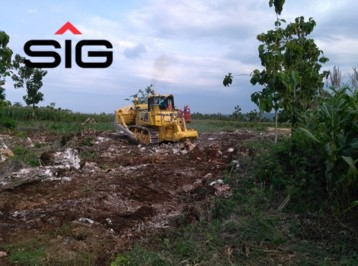
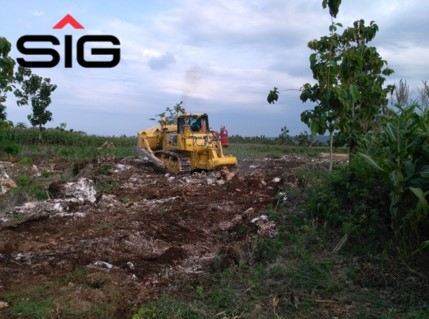
update content dan img

Changed region(s): [[0.0307, 0.0301, 0.338, 0.2707]]

diff --git a/portfolio-mining.html b/portfolio-mining.html
@@ -217,10 +217,11 @@
               <div class="row g-1 row-cols-1"">
                 <div class="col">
                   <div>
-                    <a href="assets/img/portfolio/sig-tuban-1.jpg" class="glightbox portfolio-lightbox">
-                      <img src="assets/img/portfolio/sig-tuban-1.jpg" alt="" class="img-fluid">
+                    <a href="assets/img/portfolio/sig-pangkep-1.jpg" class="glightbox portfolio-lightbox">
+                      <img src="assets/img/portfolio/sig-pangkep-1.jpg" alt="" class="img-fluid">
                     </a>
-                    <a href="assets/img/portfolio/sig-tuban-1.jpg" class="glightbox portfolio-lightbox"></a>
+                    <a href="assets/img/portfolio/sig-pangkep-2.jpg" class="glightbox portfolio-lightbox"></a>
+                    <a href="assets/img/portfolio/sig-pangkep-3.jpg" class="glightbox portfolio-lightbox"></a>
                   </div>
                 </div>
               </div>
@@ -250,39 +251,28 @@
           <div class="col-lg-6">
             <div class="container-fluid">
               <div class="row g-1 row-cols-1"">
-      
                 <div class="col">
                   <div>
-                    <a href="assets/img/portfolio/sig-tuban-1.jpg" class="glightbox portfolio-lightbox">
-                      <img src="assets/img/portfolio/sig-tuban-1.jpg" alt="" class="img-fluid">
+                    <a href="assets/img/portfolio/sig-padang-1.jpg" class="glightbox portfolio-lightbox">
+                      <img src="assets/img/portfolio/sig-padang-1.jpg" alt="" class="img-fluid">
                     </a>
+                    <a href="assets/img/portfolio/sig-padang-2.jpg" class="glightbox portfolio-lightbox"></a>
                   </div>
                 </div>
-      
-                <div class="col">
-                  <div>
-                    <a href="assets/img/portfolio/sig-tuban-2.jpg" class="glightbox portfolio-lightbox">
-                      <img src="assets/img/portfolio/sig-tuban-2.jpg" alt="" class="img-fluid">
-                    </a>
-                  </div>
-                </div>
-      
               </div>
-      
             </div>
-            
           </div>
 
           <div class="col-lg-6">
             <div class="portfolio-info">
-              <h3> Jasa Penambangan Quarry Padang </h3>
+              <h3> Jasa Penambangan Quarry Pangkep </h3>
               <ul>
-                <li><strong>Tahun</strong>: 2018-sekarang </li>
-                <li><strong>Lokasi</strong>: Padang, Sumbar </li>
-                <li><strong>User</strong>: PT. Semen Padang (Persero), Semen Indonesia Group </li>
-                <li><strong>Material</strong>: OB & Silika </li>
-                <li><strong>Metode </strong>: Direct digging/Mekanis </li>
-                <li><strong>Deskripsi </strong>: Loading & Hauling </li>
+                <li><strong>Tahun</strong>: 2010-sekarang </li>
+                <li><strong>Lokasi</strong>: Pangkep, Sulsel </li>
+                <li><strong>User</strong>: PT. Semen Tonasa (Persero), Semen Indonesia Group </li>
+                <li><strong>Material</strong>: Limestone </li>
+                <li><strong>Metode </strong>: Mekanis </li>
+                <li><strong>Deskripsi </strong>: Jasa Drilling, Loading & Hauling </li>
               </ul>
             </div>
           </div>
